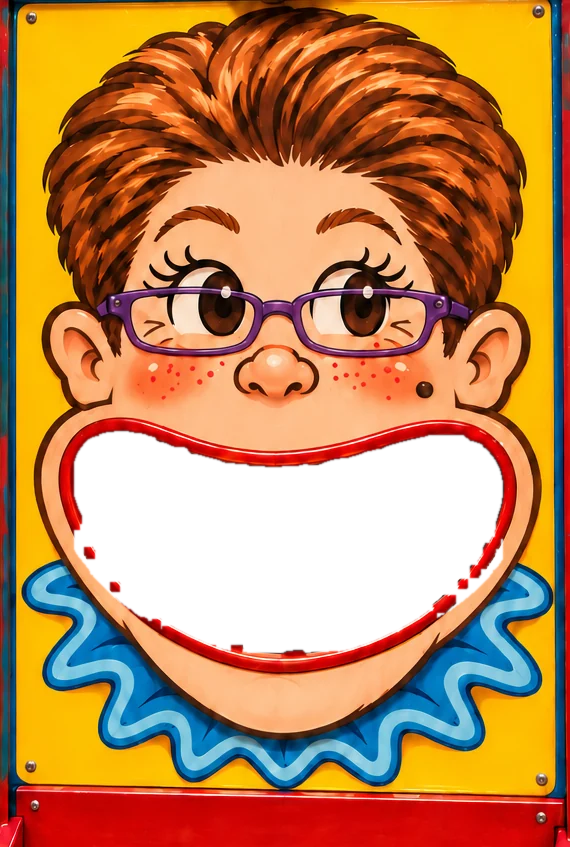
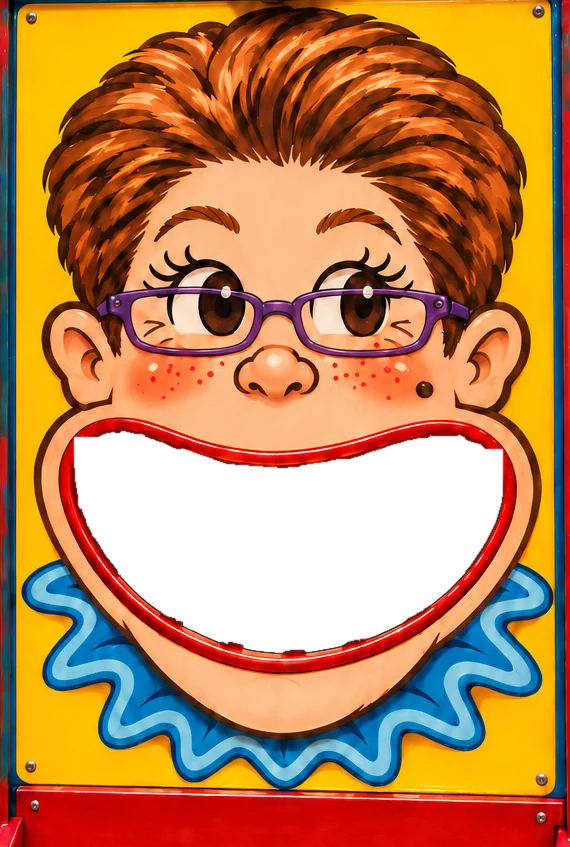
Gabby Abby: fix the see-through mouth cutting into the lower lip
The mouth cutout now stops at the lip, so the lower lip is solid and the
teeth and dark mouth no longer show through gaps near the corners.

Claude-Session: https://claude.ai/code/session_01HKyCc4k4tbjRR5EKmTbVKW

diff --git a/carnival/sw.js b/carnival/sw.js
@@ -1,5 +1,5 @@
 // Carnival Midway offline cache. Bump VERSION when you change any file.
-const VERSION = "midway-v8";
+const VERSION = "midway-v9";
 const CORE = [
   "./", "index.html", "manifest.webmanifest", "icon-192.png", "icon-512.png", "icon-maskable-512.png", "apple-touch-icon.png", "favicon-32.png",
   "down-the-clown/", "down-the-clown/index.html",
